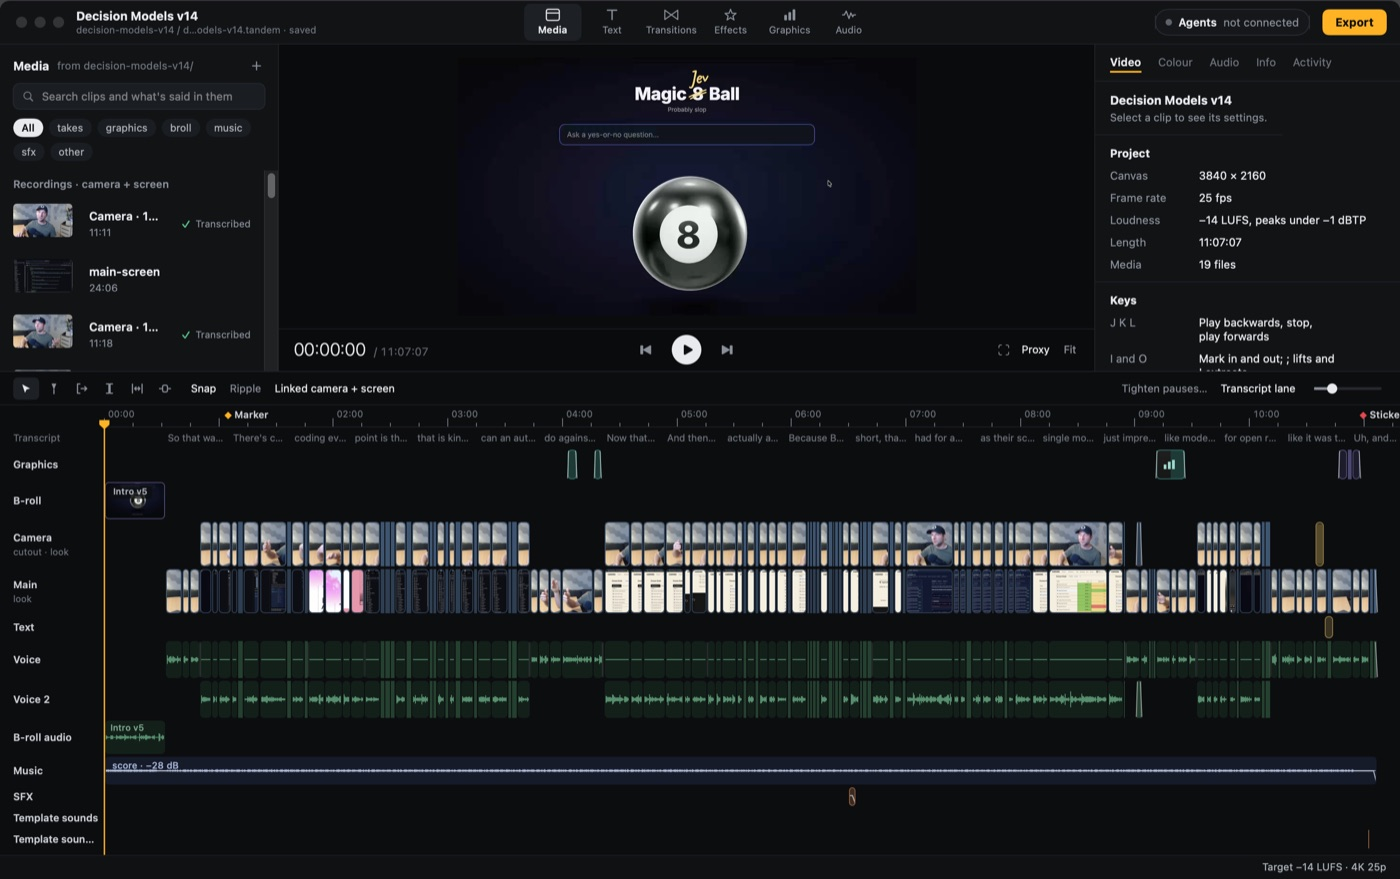
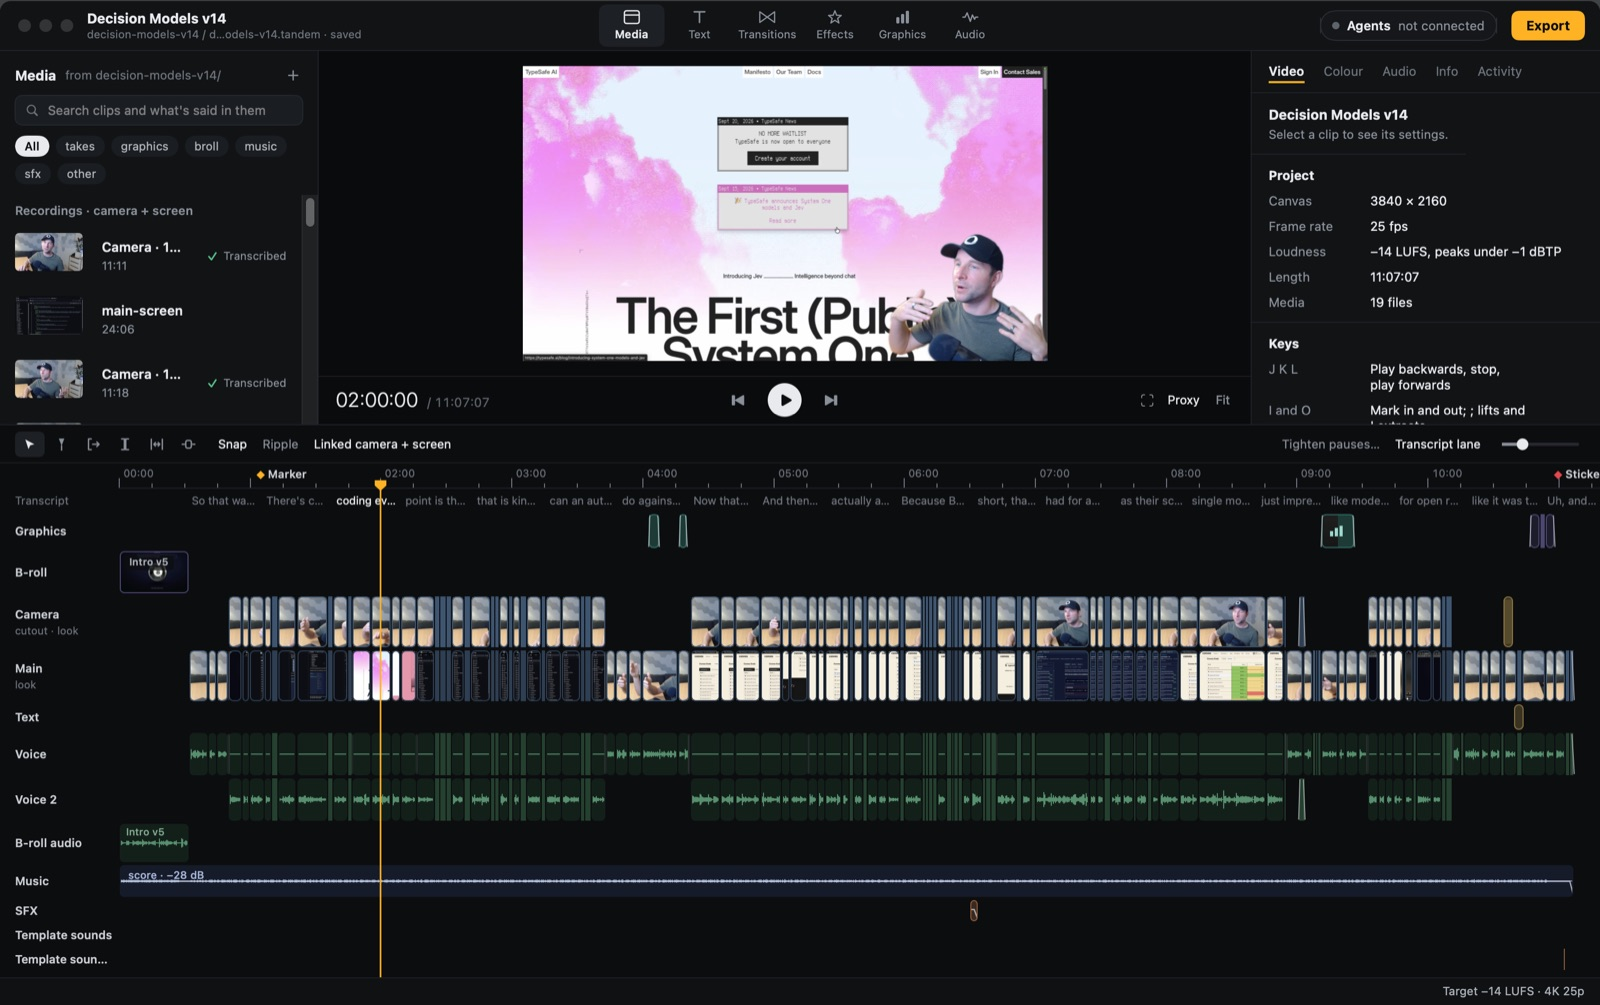
Tandem: website entry, screenshots and the licensing decision
Lists Tandem on the website with its header and two screenshots, and
records that Convex videos are made as a Convex employee, so they need
company-channel licences while Tandem stays usable for any project.

diff --git a/website/src/tools.ts b/website/src/tools.ts
@@ -268,6 +268,15 @@ export const tools: Tool[] = [
     platforms: ['macos'],
   },
   {
+    name: 'tandem',
+    desc: 'Native video editor that replaces Filmora for the Convex videos: record-it takes, a cutout PiP, ripple editing, titles, word captions, 9:16 shorts and a -14 LUFS export, with a CLI and MCP server so agents can edit the same project',
+    icon: `${base}/tandem/icons/tandem.png`,
+    header: `${base}/tandem/docs/header.jpg`,
+    screenshots: [`${base}/tandem/docs/ss1.jpg`, `${base}/tandem/docs/ss2.jpg`],
+    url: 'https://github.com/mikecann/mikerosoft/tree/main/tools/tandem',
+    platforms: ['macos'],
+  },
+  {
     name: 'voice-type',
     desc: 'Push-to-talk local voice transcription for Windows and macOS. On Apple Silicon it uses MLX for faster final transcription',
     icon: `${base}/voice-type/icons/sound.png`,

diff --git a/website/src/tools.test.ts b/website/src/tools.test.ts
@@ -77,3 +77,13 @@ test('publishes Mikey Mouse as a macOS tool', () => {
   assert.match(tool.header ?? '', /mikey-mouse\/docs\/header\.webp$/);
   assert.match(tool.url, /tools\/mikey-mouse$/);
 });
+
+test('publishes Tandem as a documented macOS tool', () => {
+  const tool = tools.find(candidate => candidate.name === 'tandem');
+
+  assert.ok(tool);
+  assert.deepEqual(tool.platforms, ['macos']);
+  assert.match(tool.icon, /tandem\/icons\/tandem\.png$/);
+  assert.match(tool.header ?? '', /tandem\/docs\/header\.jpg$/);
+  assert.match(tool.url, /tools\/tandem$/);
+});

diff --git a/tools/tandem/docs/ASSETS.md b/tools/tandem/docs/ASSETS.md
@@ -111,13 +111,15 @@ replaced: the new copy goes beside it.
 
 ## Decisions for Mike
 
-- Is he making these as a Convex employee or freelance? That decides Epidemic
-  Pro or Business and whether Remotion needs a Convex licence.
-- Convex's headcount and revenue decide other plan tiers (Epidemic Business
-  under $10M, Artlist and Envato Individual under 50 staff).
-- Turn on `sound_generation` for the ElevenLabs key.
-- Ask Freesound's operator (UPF) for written OK for commercial API use, or keep
-  Freesound off.
+- Decided 2026-09-29: Mike makes the Convex videos as a Convex employee, so
+  Convex videos need company-channel licences (Epidemic Sound Business, not
+  Pro; a Remotion company licence for Convex motion graphics). Tandem itself
+  is for any project, so personal projects can use personal licences; the
+  catalogue records each asset's licence so the credits and checks follow
+  the project.
+- The ElevenLabs key in the Keychain (`claude-code-music`) is restricted to
+  music; turning on Sound Effects for it makes Generate work for SFX.
+- Freesound stays off until its operator (UPF) agrees to commercial API use.
 - Optional: Envato Core at $16.50/mo is the cheapest broad library whose
   licence covers client work (import folder, no API).
 
